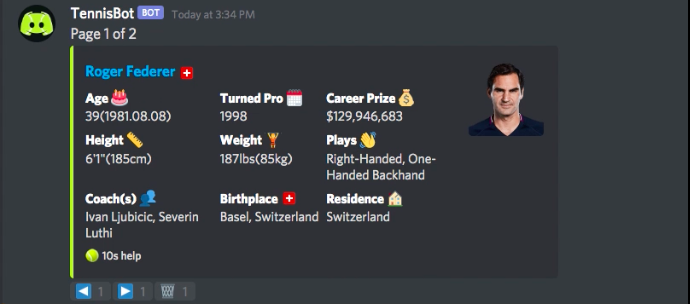
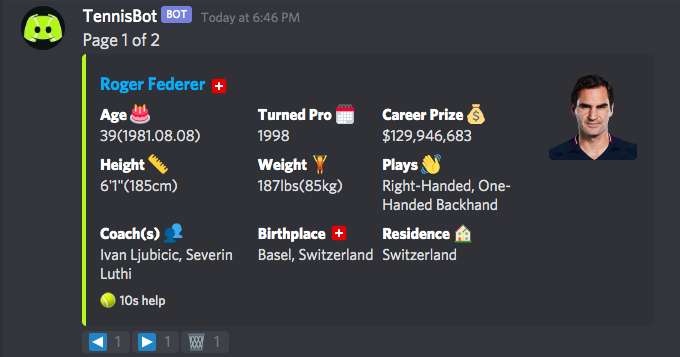
Last README fix + Better screenshots

Changed region(s): [[0.0, 0.0, 0.9574, 1.0], [0.9882, 0.0, 1.0, 1.0]]

diff --git a/commands/matchplay/scores.js b/commands/matchplay/scores.js
@@ -32,19 +32,21 @@ module.exports = class ScoresCommand extends Command{
         let date = {};
         let type = '';
         if(!args){
-            let today = new Date().toLocaleString('en-US').split(',')[0];
-            today = today.split('/');
-            date = {
-                year: today[2], 
-                month: today[0],
-                day: today[1]
-            }
-            // const today = new Date();
+            // let today = new Date().toLocaleString('en-US').split(',')[0];
+            // today = today.split('/');
             // date = {
-            //     year:today.getFullYear(), 
-            //     month: (today.getMonth()+1 < 10 ? '0'+ String(today.getMonth()+1) : String(today.getMonth()+1)),
-            //     day: today.getDate()
+            //     year: today[2], 
+            //     month: today[0],
+            //     day: today[1]
             // }
+
+            const today = new Date();
+            console.log(today)
+            date = {
+                year:today.getFullYear(), 
+                month: (today.getMonth()+1 < 10 ? '0'+ String(today.getMonth()+1) : String(today.getMonth()+1)),
+                day: today.getDate()
+            }
             type = 'all';
         }else{
             args = args.split('/');

diff --git a/README.md b/README.md
@@ -1,43 +1,51 @@
 ## Tennis Bot | Prefix: `10s` | [Invite Me](https://discord.com/api/oauth2/authorize?client_id=742055162163757157&scope=bot&permissions=387136) | [Support Server](https://discord.gg/T8DJrG)
 *V1 Currently in testing*
 
-### Features
+## Features
 #### ATP/WTA Scores | `scores`
 - Look up ATP/WTA scores from any date
+
 `10s scores`
 ![Scores Command Example](/screenshots/10s_scores.png)
 
-#### ATP Lookups | `atp`
+### ATP Lookups | `atp`
 #### ATP Subcommands
 ##### Player Profiles | `player-profiles`
 - Look up an ATP players basic biography and statistics
+
 `10s atp player-profile Roger Federer`
 ![Player Profile Command Example](/screenshots/10s_atp_player-profile_Roger_Federer.png)
 
 ##### Player Statistics & Records | `player-stats`
 - Look up an ATP players full detailed match statistics and tournament history
 - Filter by difference surfaces and years
+
 `10s atp player-stats Dominic Thiem`
 ![Player Stats Dominic Thiem](/screenshots/10s_atp_player-stats_Dominic_Thiem.png)
+
 `10s atp player-stats Novak Djokovic -f 2011 hard`
 ![Player Stats Novak Djokovic 2011 Hard Court Surface](/screenshots/10s_atp_player-stats_Novak_Djokovic_-f_2011_hard.png)
 
 ##### Rankings | `rankings`
 - Look up ATP rankings
 - Filter by singles or doubles, country, and ranking range
+
 `10s atp rankings`
 ![Rankings Example](/screenshots/10s_atp_rankings.png)
+
 `10s atp rankings doubles usa 100-250`
 ![Rankings Doubles USA #100-250](/screenshots/10s_atp_rankings_doubles_usa_100-250.png)
 
-#### WTA Lookups
-##### Coming soon
-#### Tennis Gear Lookups
-##### Coming soon
+### WTA Lookups
+#### Coming soon
+### Tennis Gear Lookups
+#### Coming soon
 
 #### Sources
-There isn't an API on tennis information so 100% of the information are scraped from these webpages. 
+There isn't an API on tennis information so 100% of the information are scraped from these webpages.
+
 ATP Info: [ATP Tour](https://www.atptour.com/)
+
 Scores: [Tennis Explorer](https://www.tennisexplorer.com/)
 
 
